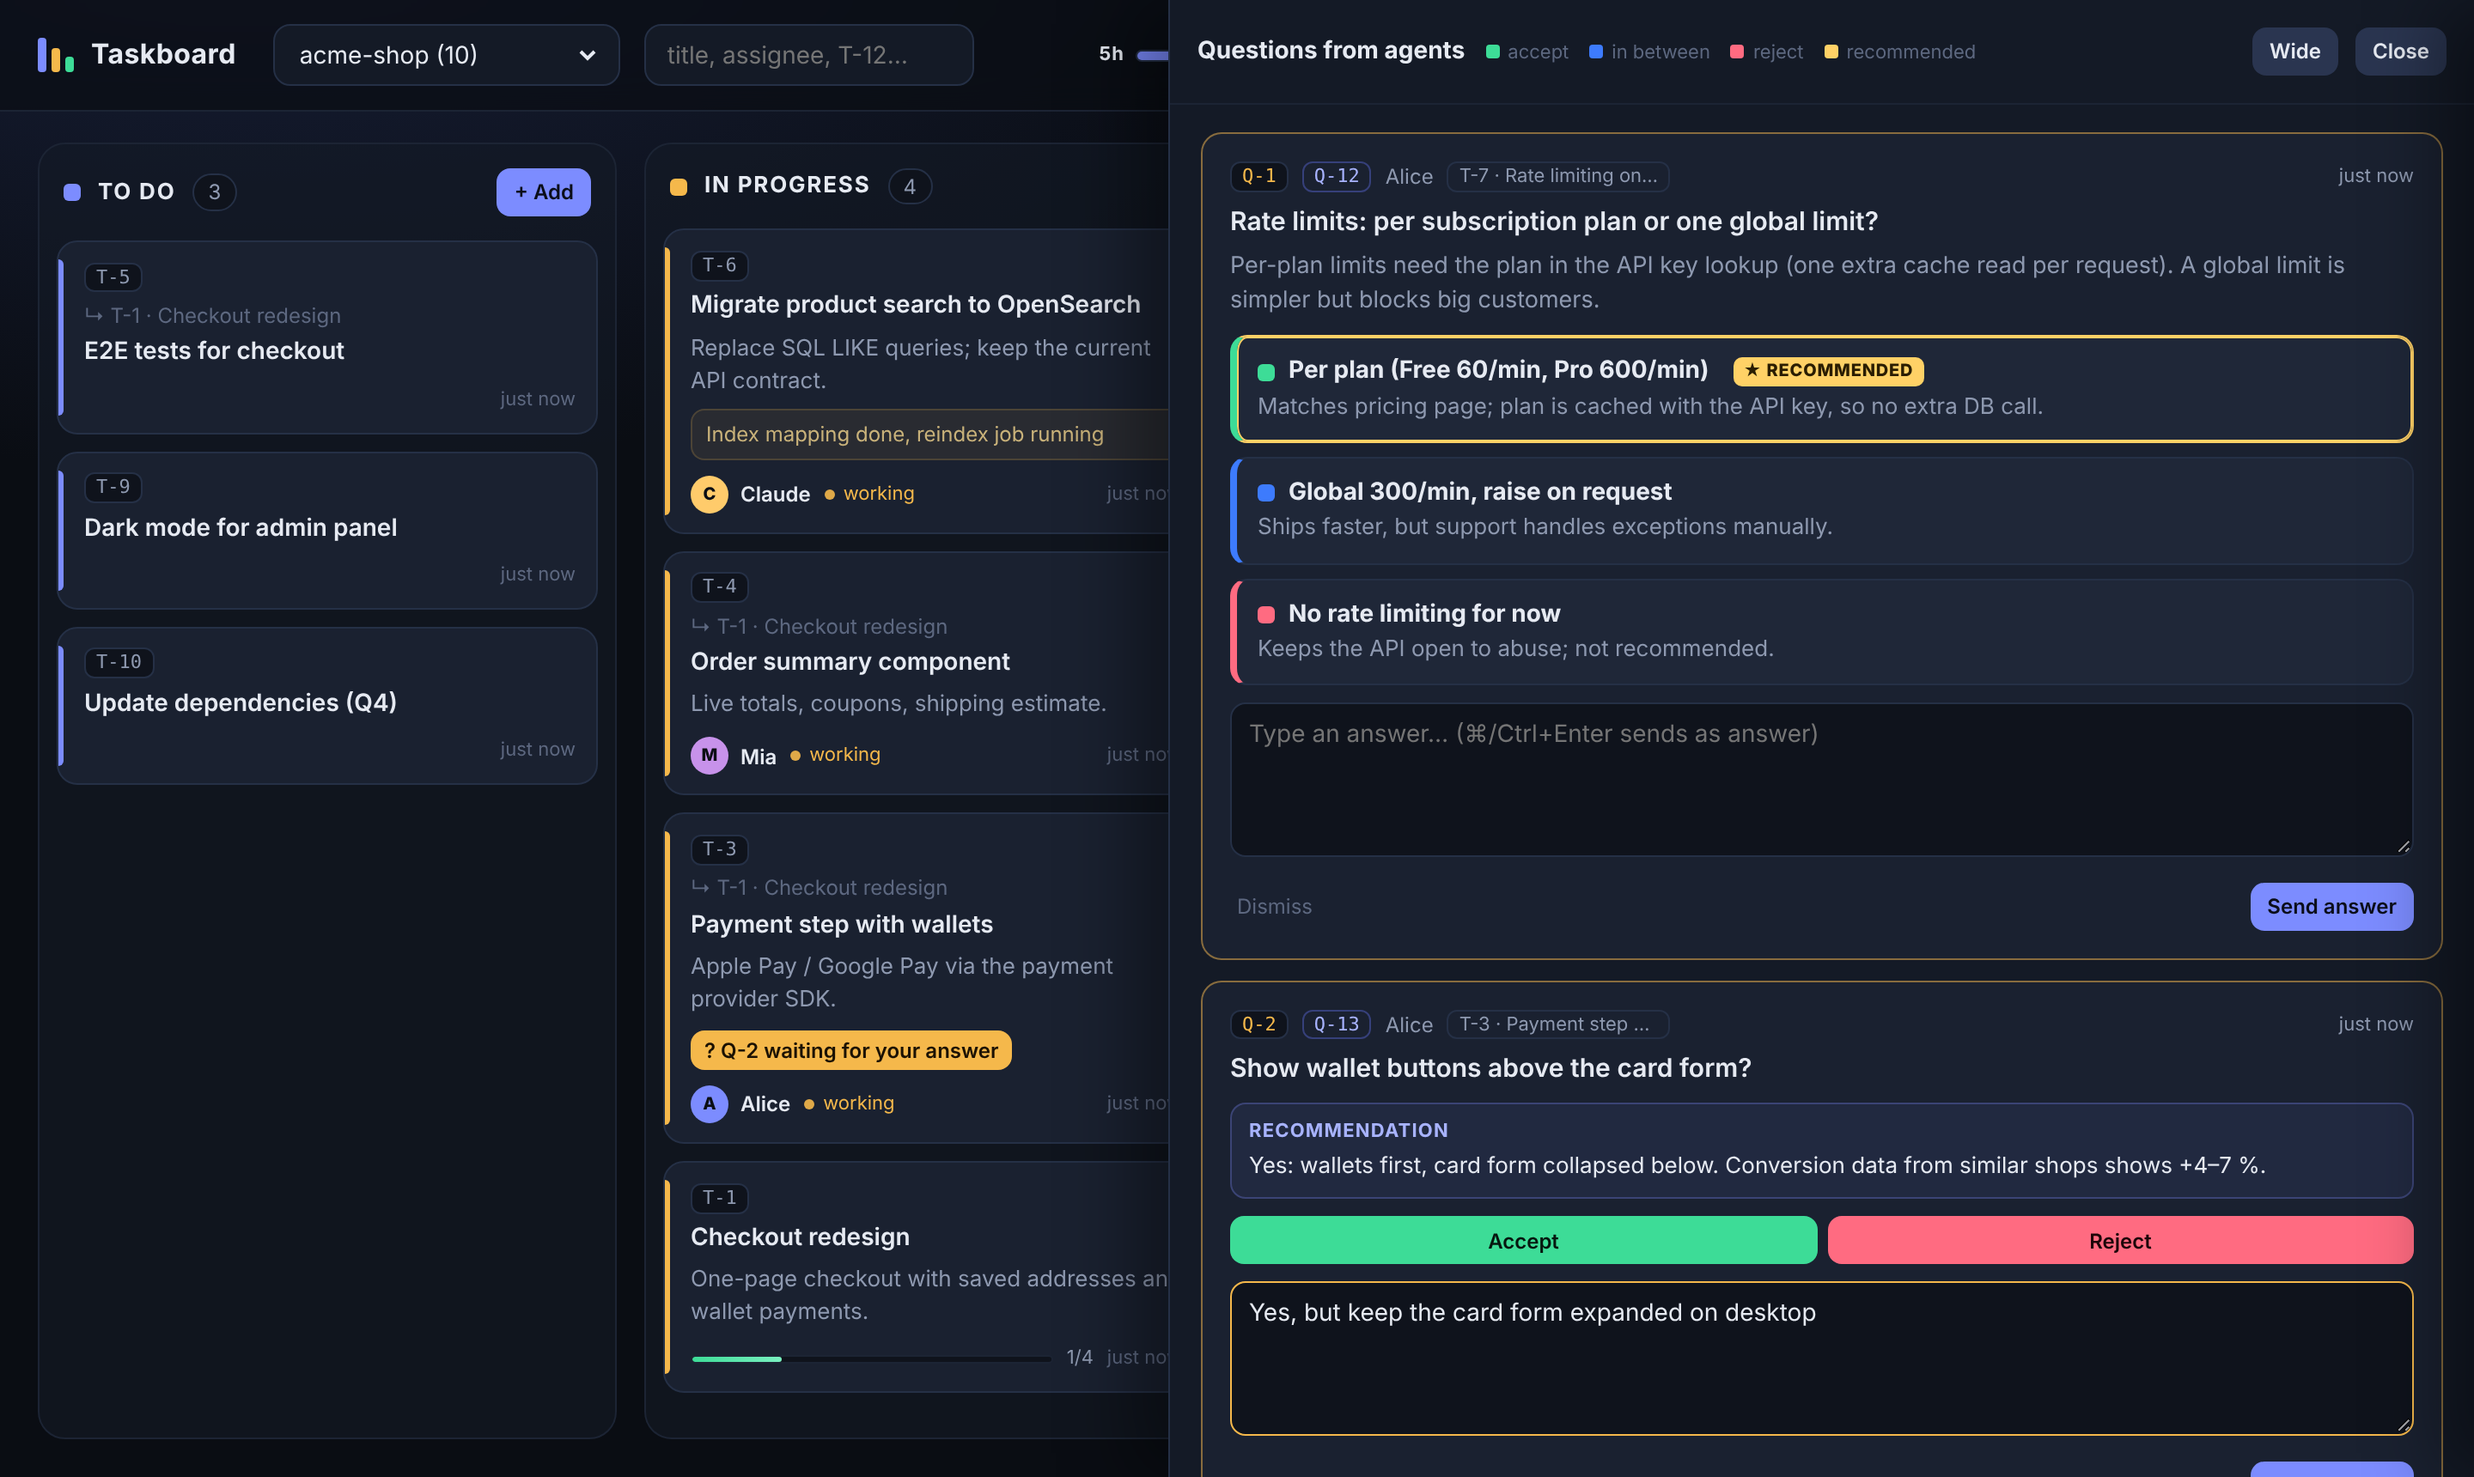
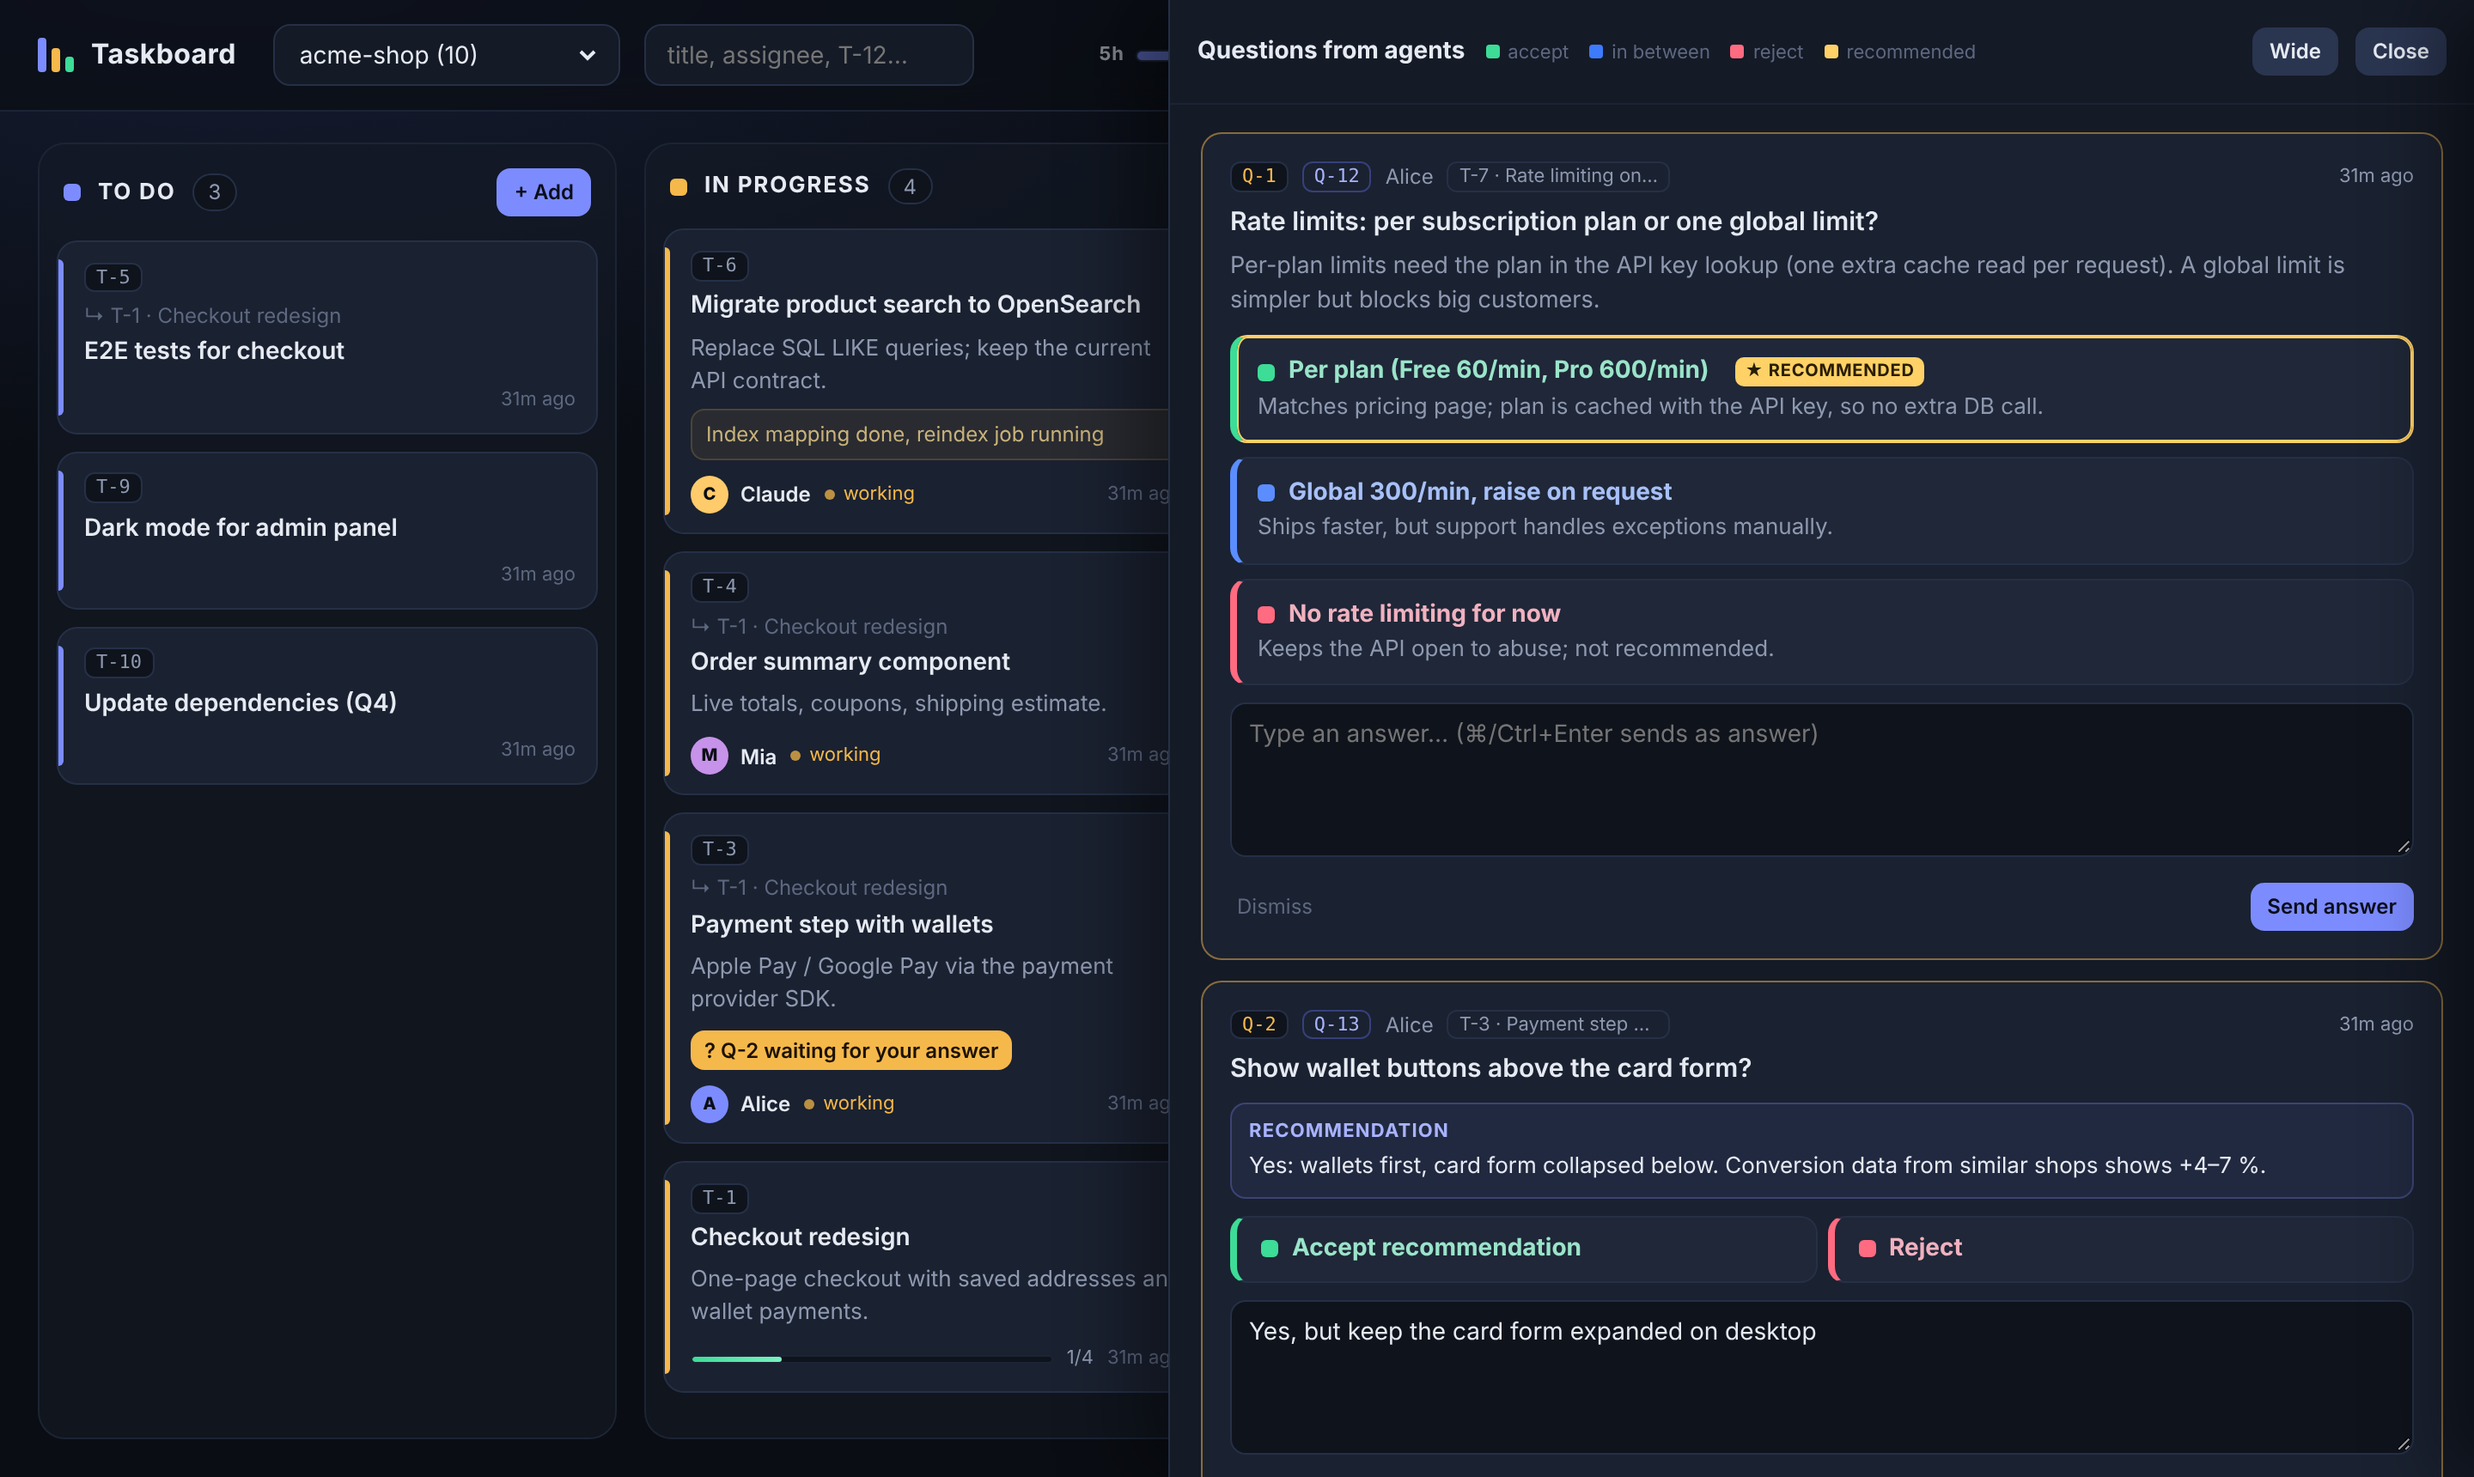
Deliver answers right after the agent's next tool call (v1.7.0)

diff --git a/plugins/taskboard/ui/index.html b/plugins/taskboard/ui/index.html
@@ -245,8 +245,9 @@
   .btn.opt-accept { background: var(--done); color: #06170f; }
   .btn.opt-reject { background: var(--blocked); color: #1d0609; }
   .btn.opt-neutral { background: #3d7bfd; color: #fff; }
-  .btn.rec { box-shadow: 0 0 0 2px var(--bg), 0 0 0 4px #ffd166; }
-  .star { font-size: 10px; font-weight: 800; letter-spacing: .4px; text-transform: uppercase; background: #ffd166; color: #2a1d00; padding: 1px 6px; border-radius: 5px; margin-left: 6px; vertical-align: 1px; }
+  .btn.rec { box-shadow: 0 0 0 2px var(--card), 0 0 0 3px rgba(230,234,242,.55); }
+  .star { font-size: 10px; font-weight: 700; letter-spacing: .4px; text-transform: uppercase; background: rgba(0,0,0,.28); color: inherit; padding: 1px 6px; border-radius: 5px; margin-left: 7px; vertical-align: 1px; white-space: nowrap; }
+  .q-optcard .star { background: #ffd166; color: #2a1d00; }
   .q-optcards { display: flex; flex-direction: column; gap: 8px; margin-top: 10px; }
   .q-optcard { display: block; width: 100%; text-align: left; border: 1px solid var(--line); border-left: 4px solid var(--oc); background: var(--card-hover); border-radius: 10px; padding: 10px 12px; cursor: pointer; color: var(--text); transition: background .15s, transform .05s; }
   .q-optcard:hover { background: color-mix(in srgb, var(--oc) 14%, var(--card)); }
@@ -255,8 +256,14 @@
   .q-optcard .ol { display: flex; align-items: center; gap: 8px; font-weight: 700; font-size: 14px; }
   .q-optcard .ol i { width: 10px; height: 10px; border-radius: 3px; background: var(--oc); flex: none; }
   .q-optcard .od { color: var(--muted); font-size: 13px; margin-top: 4px; white-space: pre-wrap; line-height: 1.45; }
-  .q-optcard.t-accept { --oc: var(--done); } .q-optcard.t-reject { --oc: var(--blocked); } .q-optcard.t-neutral { --oc: #3d7bfd; }
+  .q-optcard.t-accept { --oc: var(--done); } .q-optcard.t-reject { --oc: var(--blocked); } .q-optcard.t-neutral { --oc: #5b8dff; }
+  .q-optcards.inline { flex-direction: row; flex-wrap: wrap; }
+  .q-optcards.inline .q-optcard { width: auto; flex: 0 1 auto; padding: 8px 14px; }
+  .q-decide.q-optcards.inline .q-optcard { flex: 1 1 0; min-width: 160px; }
+  .q-optcard .ol { color: color-mix(in srgb, var(--oc) 45%, var(--text)); }
+  .q-optcard:focus-visible { outline: 2px solid var(--oc); outline-offset: 2px; }
   .q-legend { display: flex; gap: 12px; font-size: 11px; color: var(--faint); margin: 2px 2px 0; }
+  .q-legend .lg-star::before { display: none; }
   .q-legend span::before { content: ""; display: inline-block; width: 8px; height: 8px; border-radius: 2px; margin-right: 5px; background: var(--c); }
   .spin { display: inline-block; width: 13px; height: 13px; border: 2px solid currentColor; border-right-color: transparent; border-radius: 50%; animation: rot .8s linear infinite; vertical-align: -2px; flex: none; }
   @keyframes rot { to { transform: rotate(360deg); } }
@@ -351,7 +358,7 @@
   let state = { projects: {}, tasks: [], questions: [] };
   let usage = null;
   const qDrafts = {};
-  const UI_VERSION = '1.6.0';
+  const UI_VERSION = '1.7.1';
   const pending = {}; // question id -> { label, error, args }
   let showHistory = false;
   let prevQuestions = null;
@@ -614,11 +621,9 @@
       const opts = (q.options || []).map(optOf);
       if (!opts.length) return '';
       const star = (o) => (o.recommended ? '<span class="star">★ Recommended</span>' : '');
-      if (opts.some((o) => o.description)) {
-        return `<div class="q-optcards">${opts.map((o, i) => `<button class="q-optcard t-${esc(o.type)}${o.recommended ? ' rec' : ''}" data-qopt="${esc(q.id)}" data-i="${i}">
+      const inline = !opts.some((o) => o.description);
+      return `<div class="q-optcards${inline ? ' inline' : ''}">${opts.map((o, i) => `<button class="q-optcard t-${esc(o.type)}${o.recommended ? ' rec' : ''}" data-qopt="${esc(q.id)}" data-i="${i}">
           <span class="ol"><i></i>${esc(o.label)}${star(o)}</span>${o.description ? `<span class="od">${esc(o.description)}</span>` : ''}</button>`).join('')}</div>`;
-      }
-      return `<div class="q-opts">${opts.map((o, i) => `<button class="btn sm opt-${esc(o.type)}${o.recommended ? ' rec' : ''}" data-qopt="${esc(q.id)}" data-i="${i}">${esc(o.label)}${star(o)}</button>`).join('')}</div>`;
     };
     const DECISION = { accept: 'Accepted', reject: 'Rejected', option: 'Chosen', answer: 'Answered', dismissed: 'Dismissed' };
     const qHtml = (q) => {
@@ -636,7 +641,7 @@
       }
       if (q.status === 'open') {
         const decide = q.recommendation
-          ? `<div class="q-decide"><button class="btn sm done" data-qdecide="accept" data-q="${esc(q.id)}">Accept</button><button class="btn sm danger" data-qdecide="reject" data-q="${esc(q.id)}">Reject</button></div>`
+          ? `<div class="q-optcards inline q-decide"><button class="q-optcard t-accept" data-qdecide="accept" data-q="${esc(q.id)}"><span class="ol"><i></i>Accept recommendation</span></button><button class="q-optcard t-reject" data-qdecide="reject" data-q="${esc(q.id)}"><span class="ol"><i></i>Reject</span></button></div>`
           : '';
         return `<div class="q open"><div class="q-top">${meta}<span class="q-state">${esc(ago(q.createdAt))}</span></div>
           <div class="q-text">${esc(q.question)}</div>
@@ -732,7 +737,8 @@
     if (e.target.id === 'histToggle') { showHistory = !showHistory; renderQuestions(); return; }
     if (d.qretry) { submitPending(d.qretry); return; }
     if (d.qedit) { if (pending[d.qedit] && pending[d.qedit].draft) qDrafts[d.qedit] = pending[d.qedit].draft; delete pending[d.qedit]; renderQuestions(); return; }
-    if (d.qdecide) sendAnswer(d.q, d.qdecide, draftOf(d.q));
+    const decideEl = e.target.closest && e.target.closest('[data-qdecide]');
+    if (decideEl) sendAnswer(decideEl.dataset.q, decideEl.dataset.qdecide, draftOf(decideEl.dataset.q));
     else if (d.qopt || (e.target.closest && e.target.closest('[data-qopt]'))) {
       const el = d.qopt ? e.target : e.target.closest('[data-qopt]');
       const q = state.questions.find((x) => x.id === el.dataset.qopt);

diff --git a/plugins/taskboard/hooks/answers.js b/plugins/taskboard/hooks/answers.js
@@ -1,7 +1,9 @@
 #!/usr/bin/env node
 'use strict';
 /**
- * Stop / UserPromptSubmit hook.
+ * Stop / UserPromptSubmit / PostToolUse hook.
+ *  PostToolUse runs after every tool call but is guarded in hooks.json by a file test, so this
+ *  script only starts while answered questions are waiting (the leader keeps .answers-ready).
  *  1. Delivers answers the user gave on the taskboard to the session that asked (matched by the
  *     Claude Code process id, falling back to the project).
  *     - Stop: the agent continues with the answers instead of stopping.
@@ -102,8 +104,8 @@ async function main() {
     const text = `The user answered on the taskboard:\n${answers.map((q) => `- ${q.id}${q.externalId ? ` [${q.externalId}]` : ''} "${q.question}" → ${q.answer}`).join('\n')}\nIf these questions come from a file, record the decisions there.`;
     if (event === 'Stop' || event === 'SubagentStop') {
       process.stdout.write(JSON.stringify({ decision: 'block', reason: `${text}\nContinue the work using these answers.` }));
-    } else if (event === 'UserPromptSubmit') {
-      process.stdout.write(JSON.stringify({ hookSpecificOutput: { hookEventName: 'UserPromptSubmit', additionalContext: text } }));
+    } else if (event === 'UserPromptSubmit' || event === 'PostToolUse') {
+      process.stdout.write(JSON.stringify({ hookSpecificOutput: { hookEventName: event, additionalContext: `${text}\nTake these answers into account in your next steps.` } }));
     }
     return;
   }

diff --git a/plugins/taskboard/server/lib/node.js b/plugins/taskboard/server/lib/node.js
@@ -137,6 +137,7 @@ class BoardNode {
     this.conflict = null;
     this.state = this.load();
     log('leading board at', this.url);
+    this.updateAnswerMarker();
     this.updateApiPolling();
     if (process.env.TASKBOARD_USAGE !== '0') {
       this.usage = new UsageTracker();
@@ -227,9 +228,23 @@ class BoardNode {
       } };
   }
 
+  /** Marker file that exists only while answered questions wait for pickup; hooks test it before doing any work. */
+  updateAnswerMarker() {
+    if (!this.state) return;
+    const marker = path.join(HOME, '.answers-ready');
+    const waiting = Object.values(this.state.questions || {}).filter((q) => q.status === 'answered' && !q.delivered);
+    try {
+      if (waiting.length) {
+        fs.mkdirSync(HOME, { recursive: true });
+        fs.writeFileSync(marker, JSON.stringify(waiting.map((q) => ({ id: q.id, pid: q.askerPid, project: q.project }))));
+      } else if (fs.existsSync(marker)) fs.unlinkSync(marker);
+    } catch (e) { log('answer marker failed', e.message); }
+  }
+
   applyLocal(op, args) {
     if (op === 'usage') return this.usageSummary || { hasData: false, pending: true };
     const { result, changed } = board.apply(this.state, op, args);
+    if (changed) this.updateAnswerMarker();
     if (op === 'setLimitsSource') { clearInterval(this.apiTimer); this.apiTimer = null; this.updateApiPolling(); }
     if (changed) { this.scheduleSave(); this.broadcast(); }
     return result;

diff --git a/plugins/taskboard/server/mcp.js b/plugins/taskboard/server/mcp.js
@@ -9,7 +9,7 @@ const { spawn } = require('child_process');
 const { detectProject, PORT, HOME } = require('./lib/config');
 const { BoardNode } = require('./lib/node');
 
-const VERSION = '1.6.0';
+const VERSION = '1.7.1';
 const SUPPORTED_PROTOCOLS = ['2025-06-18', '2025-03-26', '2024-11-05'];
 const project = detectProject(process.env.CLAUDE_PROJECT_DIR || process.cwd());
 const node = new BoardNode();

diff --git a/plugins/taskboard/skills/taskboard/SKILL.md b/plugins/taskboard/skills/taskboard/SKILL.md
@@ -52,9 +52,10 @@ by project (the git root of the session).
      `reject` (red), `neutral` (blue, anything in between). Mark your preferred option with
      `recommended: true` instead of writing "(Recommended)" into the label, and use
      `description` to explain consequences of complex choices (shown under the label).
-   - answers arrive automatically on your next turn (formatted `Q-3 [your id] → ACCEPTED …`,
-     `REJECTED — instead: …`, `CHOSE: …`, or free text); you can also call `board_answers`
-     (`includeOpen: true` shows what is still waiting). Write decisions back into the questions
+   - answers arrive automatically, usually right after your next tool call (formatted
+     `Q-3 [your id] → ACCEPTED …`, `REJECTED — instead: …`, `CHOSE: …`, or free text).
+     **Do not poll `board_answers`**: every call costs tokens and answers come by themselves. Use
+     it only when the user asks, or with `includeOpen: true` to see what is still open. Write decisions back into the questions
      file if there is one.
    - don't stop and wait for answers you don't need yet: keep working on other cards, or mark
      the dependent card blocked.

diff --git a/README.md b/README.md
@@ -119,9 +119,13 @@ description and recommendation.
 - **Free text** for anything else.
 
 After you answer, the card shows **Sending…**, then **Answer saved, waiting for the agent**. When
-the agent has picked it up you see **✓ received** and the question moves to the history. An
-agent that is waiting gets the answer immediately; otherwise it arrives with the agent's next turn
-or your next message to it.
+the agent has picked it up you see **✓ received** and the question moves to the history.
+
+Agents see your answer **right after their next step** (tool call), at the end of their turn, or
+with your next message to them; an agent waiting in `board_ask` gets it immediately. This costs
+**no tokens while nothing is waiting**: the board keeps a marker file only while answers wait for
+pickup, and the hook checks it with a single file test (~2 ms) before doing anything else. An
+agent that has already stopped can't be woken up; send it any message to hand the answer over.
 
 The agent receives the decision together with its own question id, for example
 `Q-1 [Q-12] → CHOSE: Per plan (accept) — your recommended option`, and writes it back to its
